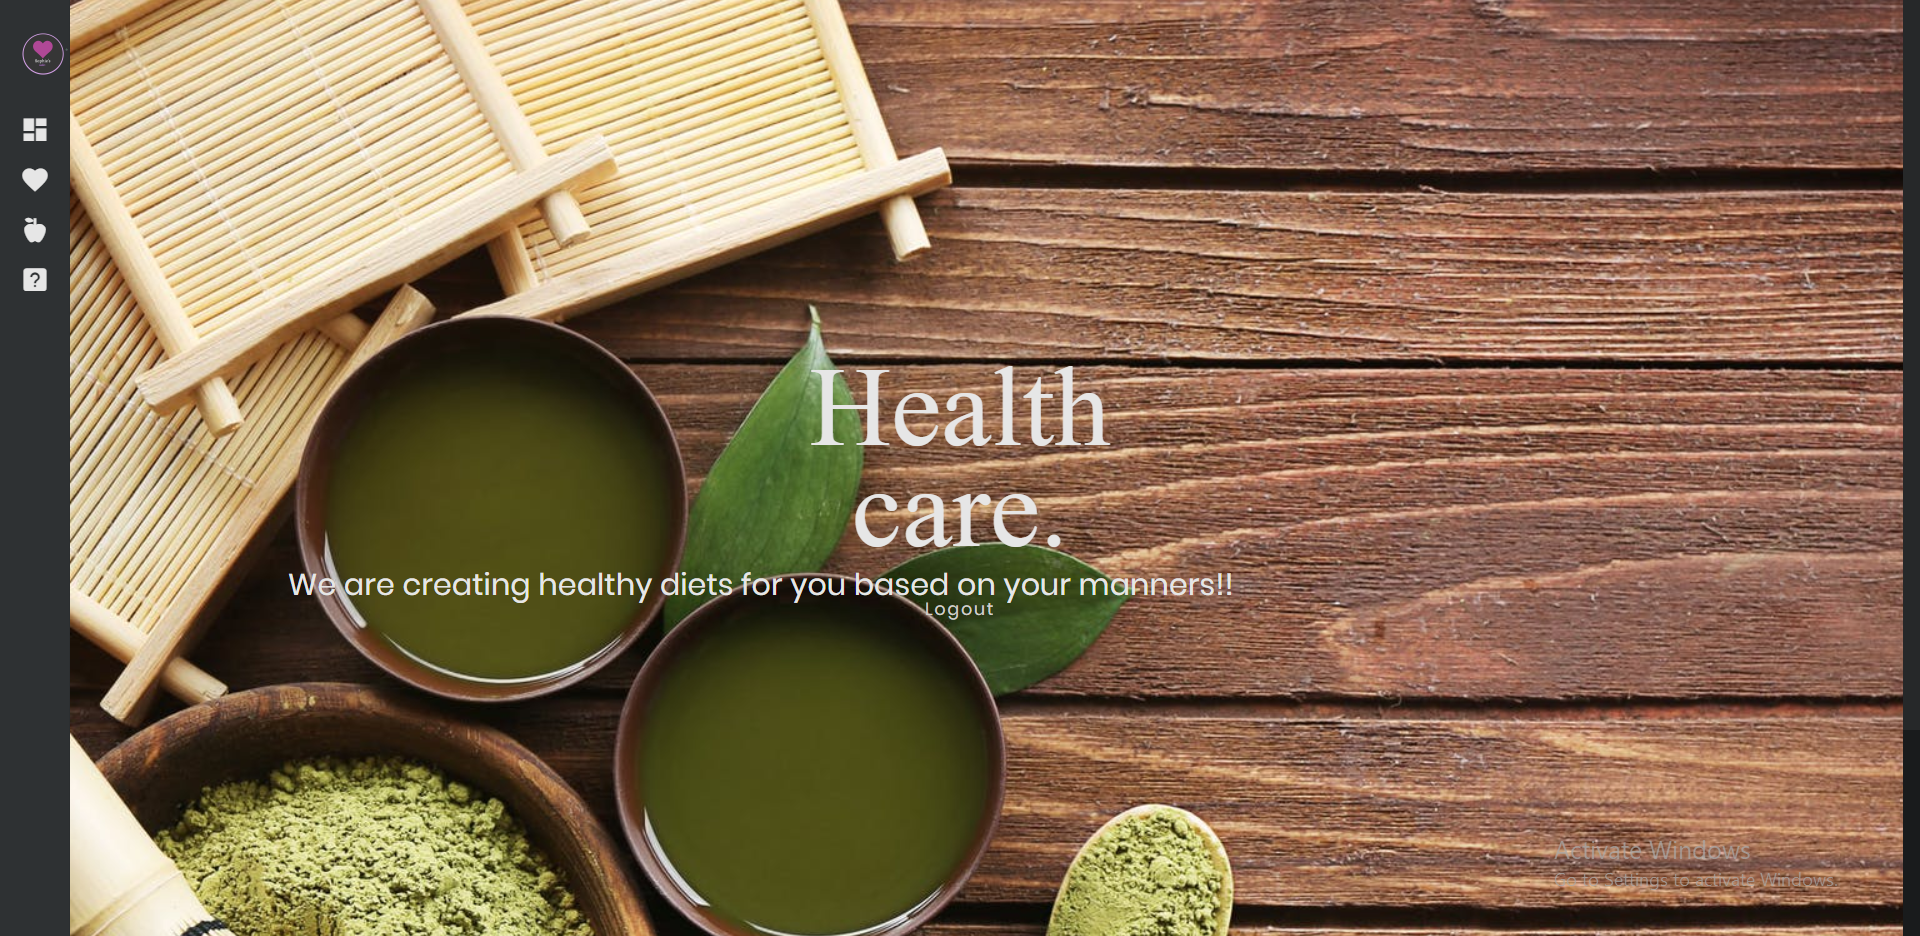
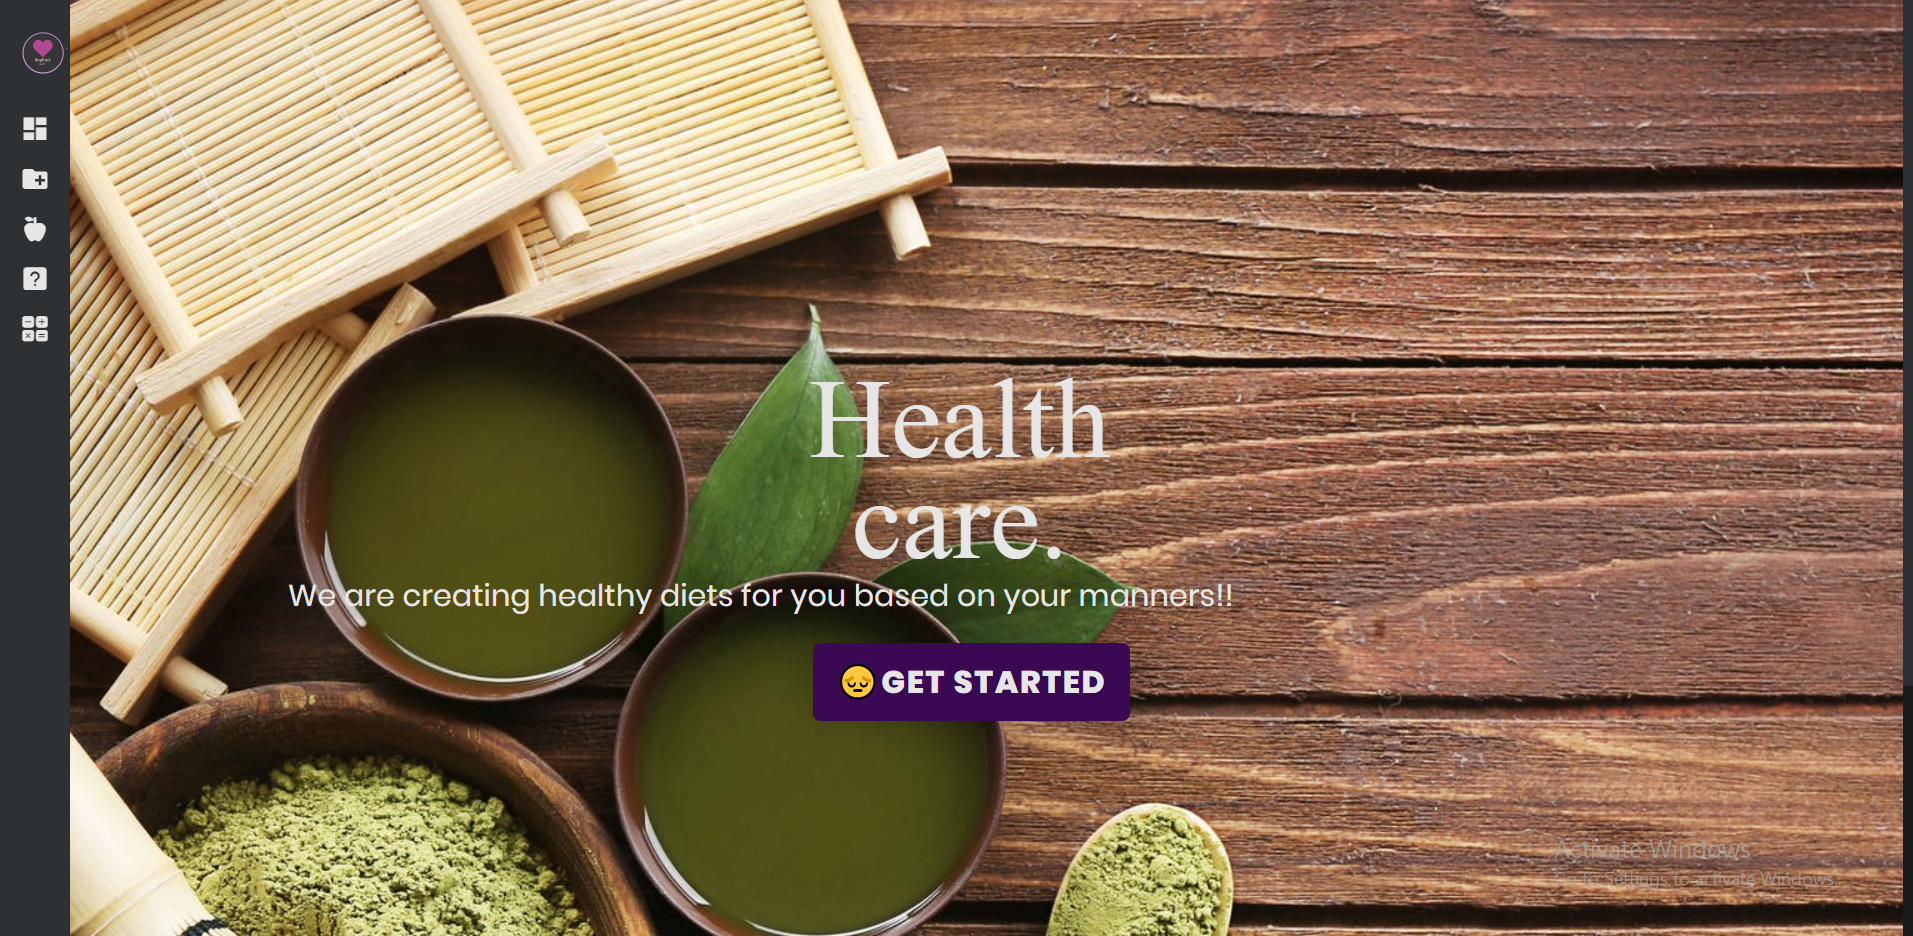
pics

diff --git a/Project-started/src/components/core/Home/Home-private.vue b/Project-started/src/components/core/Home/Home-private.vue
@@ -9,7 +9,6 @@
             <br />care.
           </h1>
           <p>We are creating healthy diets for you based on your manners!!</p>
-          <button @click="logout()">Logout</button>
         </div>
       </div>
       <div>
@@ -32,12 +31,7 @@ export default {
   name: "dashboard",
   components: { headerLoad },
   methods: {
-    logout() {
-      this.$store.dispatch("logout").then(el => {
-        localStorage.removeItem("token");
-        this.$router.replace({ name: "publicHome" });
-      });
-    }
+   
   }
 };
 </script>

diff --git a/Project-started/README.md b/Project-started/README.md
@@ -4,11 +4,20 @@
 * npm run serve
 # Private page
 ![Screenshot](screenshot.png)
+# Get started page
+![Screenshot](screenshot7.png)
+# Task page
+![Screenshot](screenshot6.png)
 # Creating daily food page
 ![Screenshot](screenshot2.png)
 # Displaying food page
 ![Screenshot](screenshot1.png)
 # Meal details
 ![Screenshot](screenshot3.png)
+# BMI 
+![Screenshot](screenshot5.png)
+# Test
+![Screenshot](screenshot4.png)
+
 # Aim
 * The app is abount tracking your daily movements, food habits and todo tasks
